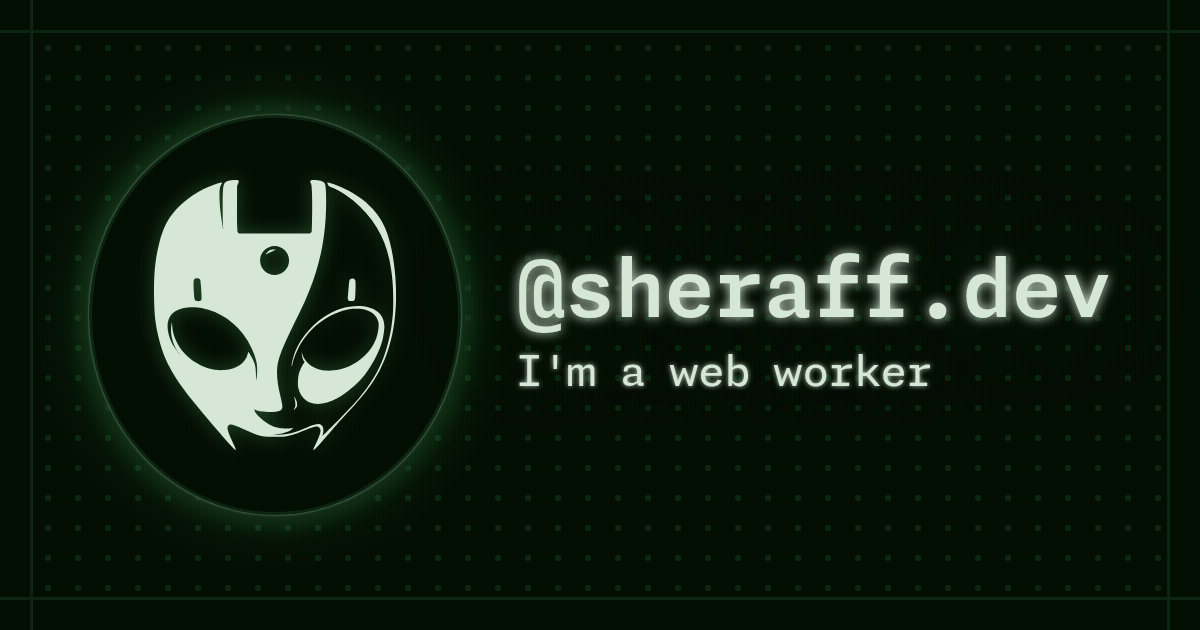
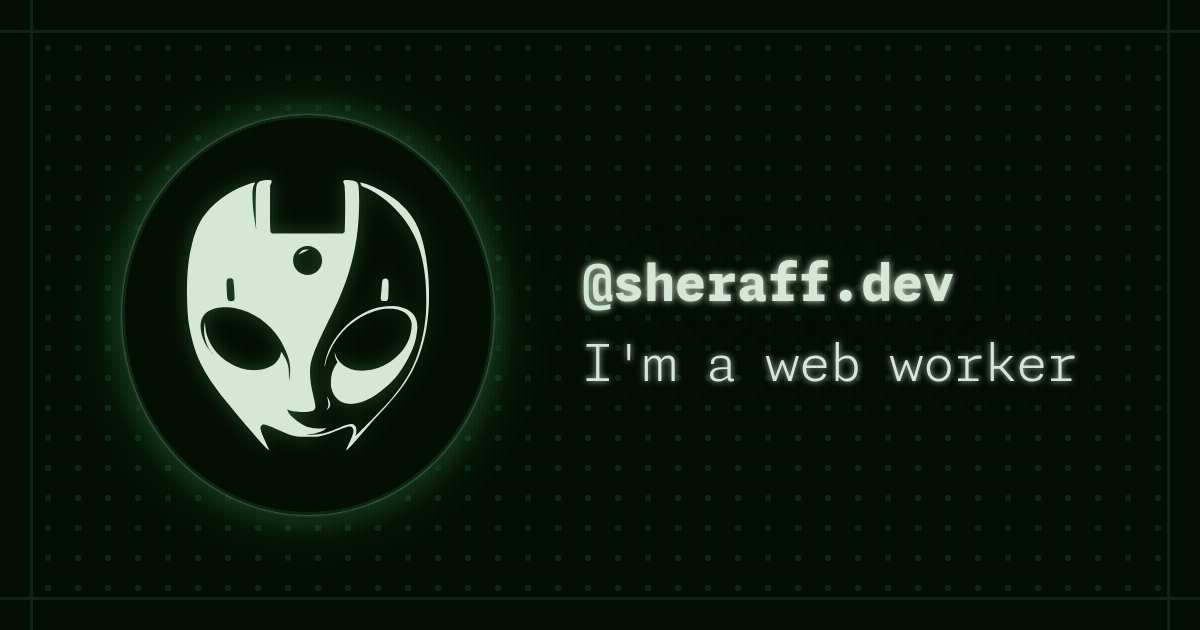
cleaner og image title

Changed region(s): [[0.0617, 0.181, 0.925, 0.8143], [0.2467, 0.7841, 0.3083, 0.8143]]

diff --git a/src/og.css b/src/og.css
@@ -65,15 +65,16 @@ main {
 
 		h1 {
 			margin: 16px 0 20px;
-			font-size: 80px;
-			font-weight: 600;
-			line-height: 0.94;
+			font-size: 50px;
+			font-weight: 900;
+			line-height: 1.2;
 			text-shadow: var(--heading-glow);
 		}
 
 		p {
 			margin: 0;
-			font-size: 42px;
+			font-size: 50px;
+			font-weight: 100;
 			line-height: 1.2;
 			text-shadow: var(--text-glow);
 		}
